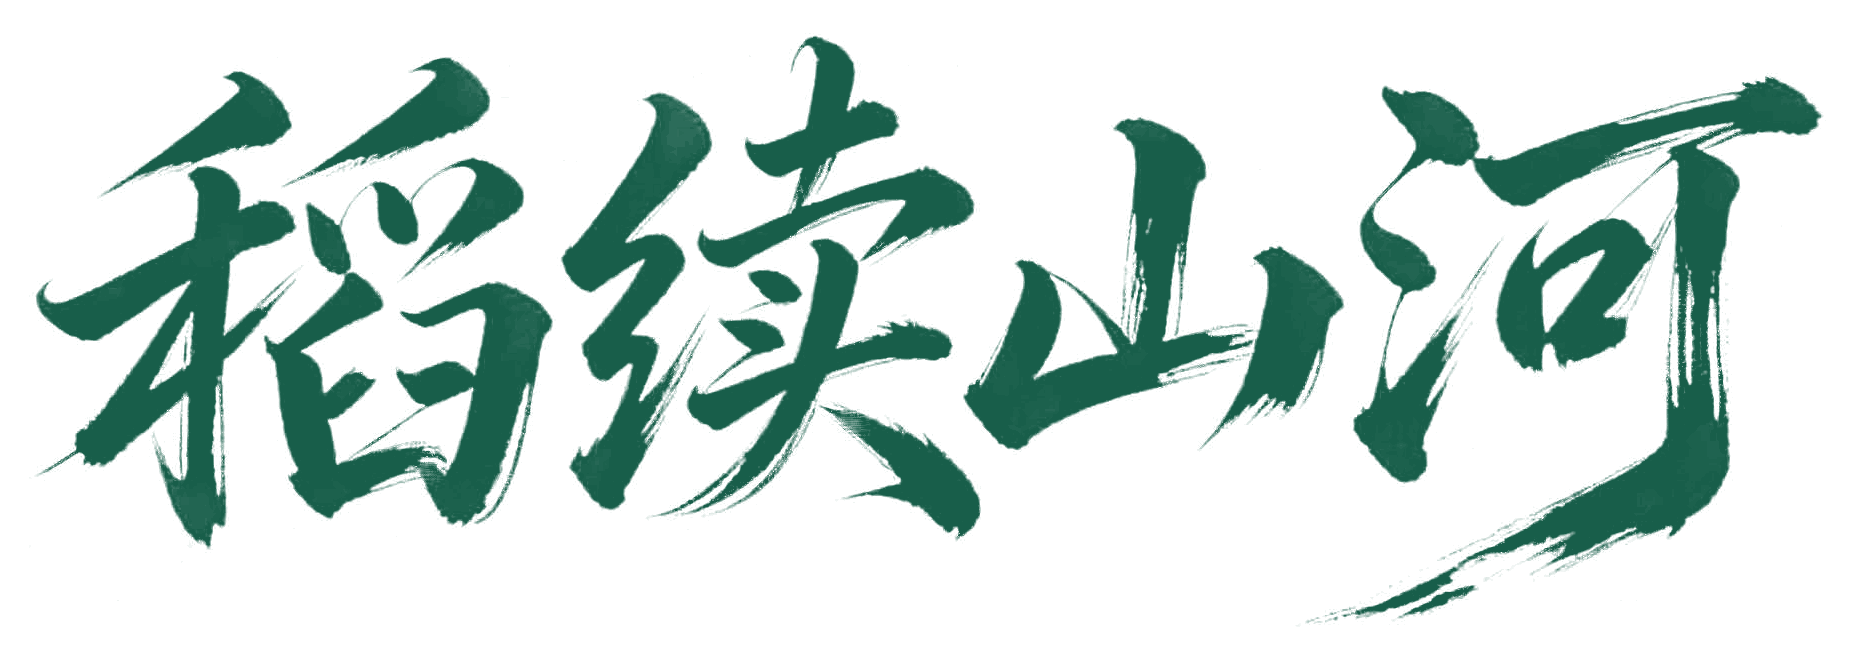
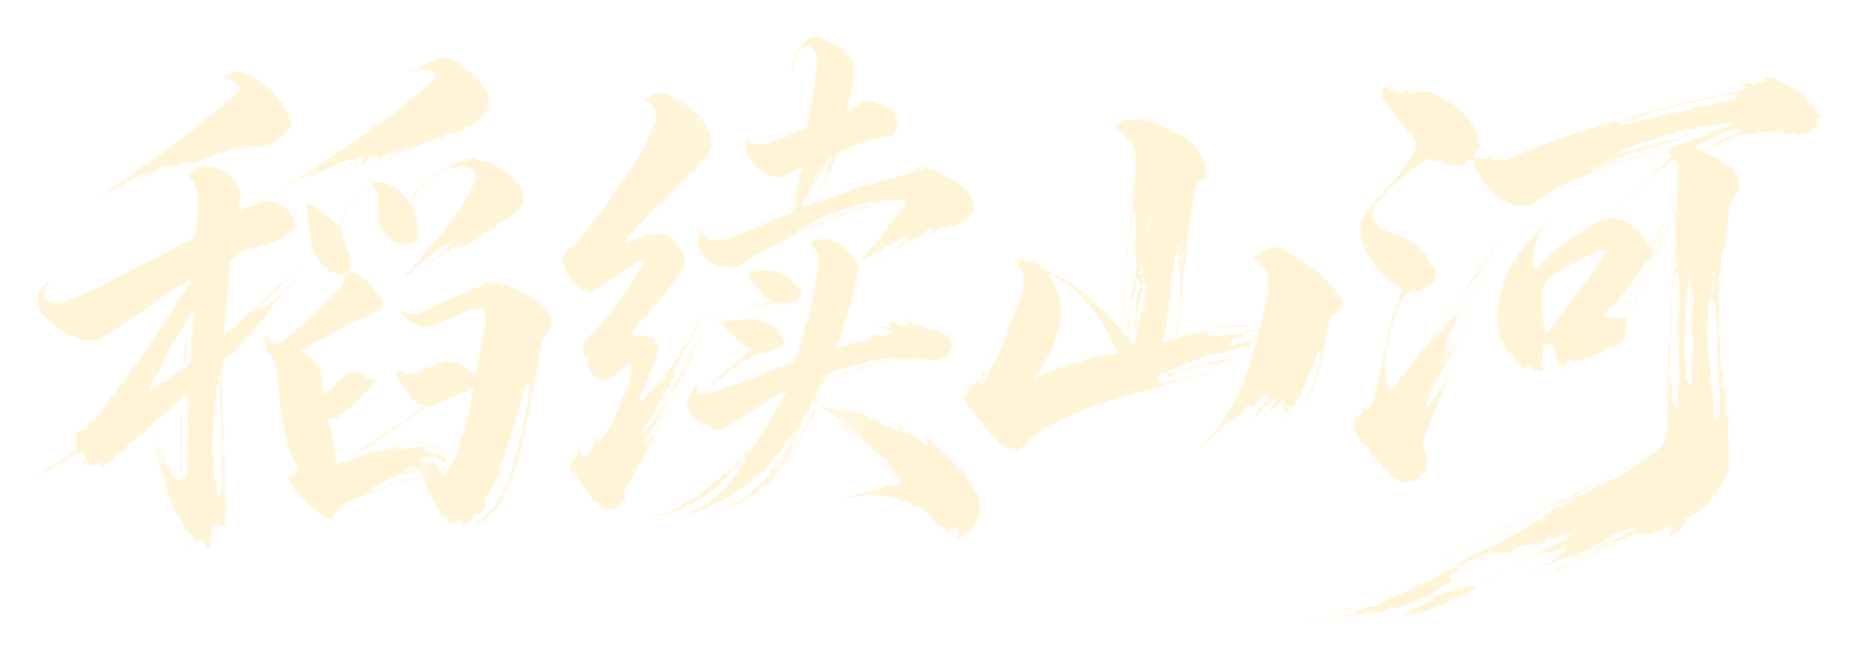
Improve homepage title contrast with warm ivory lettering

Changed region(s): [[0.0, 0.0608, 0.9995, 0.9422]]

diff --git a/harvest.css b/harvest.css
@@ -65,4 +65,4 @@
 .replay-chapter:hover{background:#e6e9d6;color:#344634}.drawer .replay-chapters{margin:0}.drawer .replay-chapter{background:#e7ecdf;color:#344634;border-color:#bbc8ae}
 @media(max-width:800px){.replay-chapters{gap:10px}.replay-chapter{font-size:16px;padding:14px 12px}.ending-buttons{flex-wrap:wrap}}
 .opening-screen .cover-title{margin:20px auto 28px;line-height:0;letter-spacing:0;width:min(620px,82vw)}
-.cover-title img{display:block;width:100%;height:auto;filter:drop-shadow(0 1px 2px #f5f3ebbb)}
+.cover-title img{display:block;width:100%;height:auto;filter:drop-shadow(0 2px 3px #1d3028a6) drop-shadow(0 6px 16px #17291f66)}
